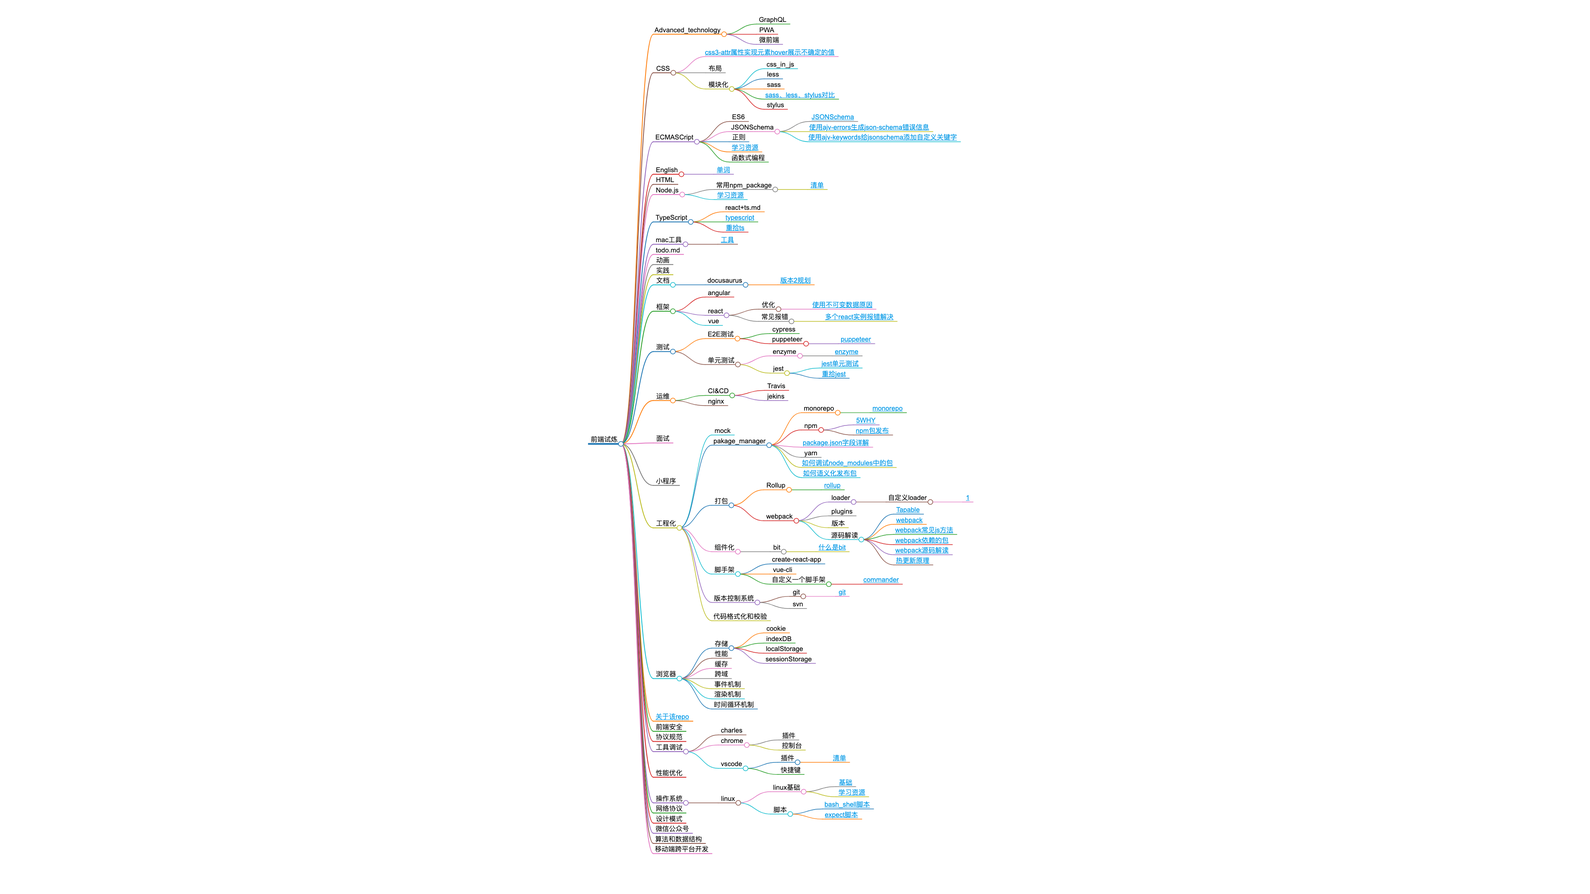
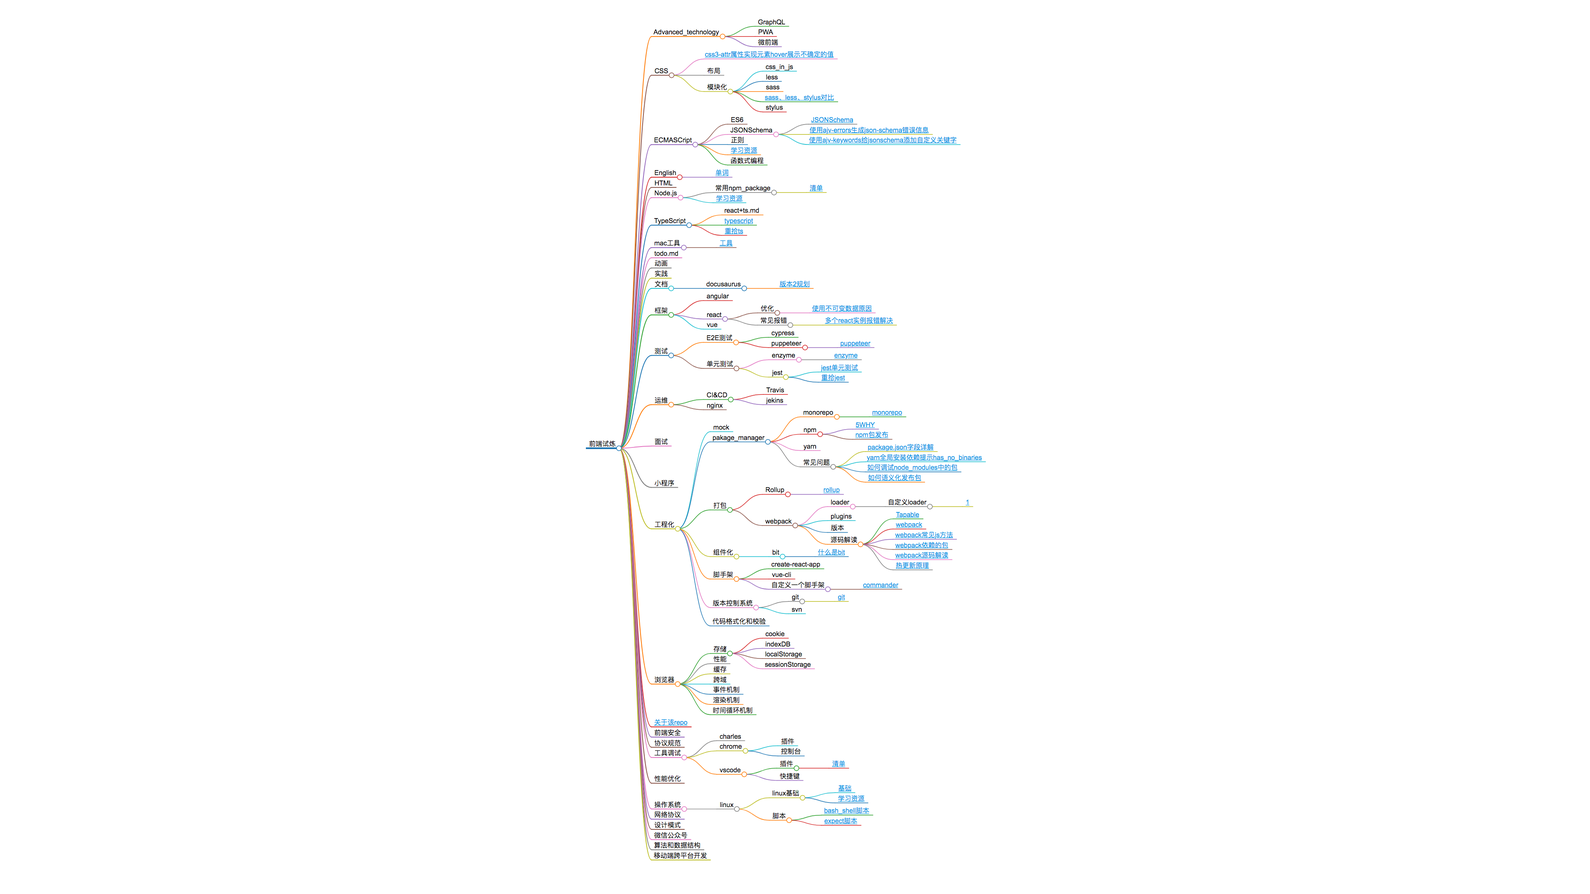
chore: updata思维导图

Changed region(s): [[0.375, 0.0, 0.625, 0.9616]]

diff --git a/website/static/xmind.html b/website/static/xmind.html
@@ -28,6 +28,6 @@
         (init ? init(loadPlugins, items, opts) : Promise.resolve()).then(() => {
           window.mm = Markmap.create('svg#mindmap', null, data);
         });
-      })({"t":"heading","d":1,"v":"前端试炼","c":[{"t":"list_item","d":2,"v":"Advanced_technology","c":[{"t":"list_item","d":3,"v":"GraphQL"},{"t":"list_item","d":3,"v":"PWA"},{"t":"list_item","d":3,"v":"微前端"}]},{"t":"list_item","d":2,"v":"CSS","c":[{"t":"list_item","d":3,"v":"<a href=\"docs/CSS/0729c4e1a19b9e3b6904b91e63cbd435\" title=\"\" target=\"_blank\" rel=\"noopener noreferrer\">css3-attr属性实现元素hover展示不确定的值</a>"},{"t":"list_item","d":3,"v":"布局"},{"t":"list_item","d":3,"v":"模块化","c":[{"t":"list_item","d":4,"v":"css_in_js"},{"t":"list_item","d":4,"v":"less"},{"t":"list_item","d":4,"v":"sass"},{"t":"list_item","d":4,"v":"<a href=\"docs/CSS/模块化/98c70242585e1c8ac87207d342ab81e0\" title=\"\" target=\"_blank\" rel=\"noopener noreferrer\">sass、less、stylus对比</a>"},{"t":"list_item","d":4,"v":"stylus"}]}]},{"t":"list_item","d":2,"v":"ECMASCript","c":[{"t":"list_item","d":3,"v":"ES6"},{"t":"list_item","d":3,"v":"JSONSchema","c":[{"t":"list_item","d":4,"v":"<a href=\"docs/ECMASCript/JSONSchema/718deb34c13a2d51e3c2ba69f472fce9\" title=\"\" target=\"_blank\" rel=\"noopener noreferrer\">JSONSchema</a>"},{"t":"list_item","d":4,"v":"<a href=\"docs/ECMASCript/JSONSchema/f7964c8f9054ea24043d6089ad339147\" title=\"\" target=\"_blank\" rel=\"noopener noreferrer\">使用ajv-errors生成json-schema错误信息</a>"},{"t":"list_item","d":4,"v":"<a href=\"docs/ECMASCript/JSONSchema/5237e232cb7cb852580db82169fdcaeb\" title=\"\" target=\"_blank\" rel=\"noopener noreferrer\">使用ajv-keywords给jsonschema添加自定义关键字</a>"}]},{"t":"list_item","d":3,"v":"正则"},{"t":"list_item","d":3,"v":"<a href=\"docs/操作系统/linux/linux基础/689f3c1463ddd1dcc82289676bfe9c29\" title=\"\" target=\"_blank\" rel=\"noopener noreferrer\">学习资源</a>"},{"t":"list_item","d":3,"v":"函数式编程"}]},{"t":"list_item","d":2,"v":"English","c":[{"t":"list_item","d":3,"v":"<a href=\"docs/English/72a91cf59167d6c497b1e3057447af5a\" title=\"\" target=\"_blank\" rel=\"noopener noreferrer\">单词</a>"}]},{"t":"list_item","d":2,"v":"HTML"},{"t":"list_item","d":2,"v":"Node.js","c":[{"t":"list_item","d":3,"v":"常用npm_package","c":[{"t":"list_item","d":4,"v":"<a href=\"docs/工具调试/vscode/插件/936218830ddd439aad69eb5381a0136e\" title=\"\" target=\"_blank\" rel=\"noopener noreferrer\">清单</a>"}]},{"t":"list_item","d":3,"v":"<a href=\"docs/操作系统/linux/linux基础/689f3c1463ddd1dcc82289676bfe9c29\" title=\"\" target=\"_blank\" rel=\"noopener noreferrer\">学习资源</a>"}]},{"t":"list_item","d":2,"v":"TypeScript","c":[{"t":"list_item","d":3,"v":"react+ts.md"},{"t":"list_item","d":3,"v":"<a href=\"docs/TypeScript/808567b84cc51ad515d4820e54f84e31\" title=\"\" target=\"_blank\" rel=\"noopener noreferrer\">typescript</a>"},{"t":"list_item","d":3,"v":"<a href=\"docs/TypeScript/b36f6376acc1abd98aab96ef91491d2b\" title=\"\" target=\"_blank\" rel=\"noopener noreferrer\">重拾ts</a>"}]},{"t":"list_item","d":2,"v":"mac工具","c":[{"t":"list_item","d":3,"v":"<a href=\"docs/mac工具/5bda6d956aa9663cc7cc9f670a33c494\" title=\"\" target=\"_blank\" rel=\"noopener noreferrer\">工具</a>"}]},{"t":"list_item","d":2,"v":"todo.md"},{"t":"list_item","d":2,"v":"动画"},{"t":"list_item","d":2,"v":"实践"},{"t":"list_item","d":2,"v":"文档","c":[{"t":"list_item","d":3,"v":"docusaurus","c":[{"t":"list_item","d":4,"v":"<a href=\"docs/文档/docusaurus/a7934b68b6234157a1af4087537d1e8b\" title=\"\" target=\"_blank\" rel=\"noopener noreferrer\">版本2规划</a>"}]}]},{"t":"list_item","d":2,"v":"框架","c":[{"t":"list_item","d":3,"v":"angular"},{"t":"list_item","d":3,"v":"react","c":[{"t":"list_item","d":4,"v":"优化","c":[{"t":"list_item","d":5,"v":"<a href=\"docs/框架/react/优化/9593bd0a7ccc4b28542a173a5db9e40d\" title=\"\" target=\"_blank\" rel=\"noopener noreferrer\">使用不可变数据原因</a>"}]},{"t":"list_item","d":4,"v":"常见报错","c":[{"t":"list_item","d":5,"v":"<a href=\"docs/框架/react/常见报错/7d0e60c89a5f550eadf89f5f22550bcc\" title=\"\" target=\"_blank\" rel=\"noopener noreferrer\">多个react实例报错解决</a>"}]}]},{"t":"list_item","d":3,"v":"vue"}]},{"t":"list_item","d":2,"v":"测试","c":[{"t":"list_item","d":3,"v":"E2E测试","c":[{"t":"list_item","d":4,"v":"cypress"},{"t":"list_item","d":4,"v":"puppeteer","c":[{"t":"list_item","d":5,"v":"<a href=\"docs/测试/E2E测试/puppeteer/179673e977b3c3f9ad055a4b4a1e4eff\" title=\"\" target=\"_blank\" rel=\"noopener noreferrer\">puppeteer</a>"}]}]},{"t":"list_item","d":3,"v":"单元测试","c":[{"t":"list_item","d":4,"v":"enzyme","c":[{"t":"list_item","d":5,"v":"<a href=\"docs/测试/单元测试/enzyme/ff68fd239a281351a53d6e0b62b17fe7\" title=\"\" target=\"_blank\" rel=\"noopener noreferrer\">enzyme</a>"}]},{"t":"list_item","d":4,"v":"jest","c":[{"t":"list_item","d":5,"v":"<a href=\"docs/测试/单元测试/jest/094b039468990ad513f1f8dd484d8dc2\" title=\"\" target=\"_blank\" rel=\"noopener noreferrer\">jest单元测试</a>"},{"t":"list_item","d":5,"v":"<a href=\"docs/测试/单元测试/jest/b1f6cee7ef1784df1f5f69a9c4a785da\" title=\"\" target=\"_blank\" rel=\"noopener noreferrer\">重拾jest</a>"}]}]}]},{"t":"list_item","d":2,"v":"运维","c":[{"t":"list_item","d":3,"v":"CI&amp;CD","c":[{"t":"list_item","d":4,"v":"Travis"},{"t":"list_item","d":4,"v":"jekins"}]},{"t":"list_item","d":3,"v":"nginx"}]},{"t":"list_item","d":2,"v":"面试"},{"t":"list_item","d":2,"v":"小程序"},{"t":"list_item","d":2,"v":"工程化","c":[{"t":"list_item","d":3,"v":"mock"},{"t":"list_item","d":3,"v":"pakage_manager","c":[{"t":"list_item","d":4,"v":"monorepo","c":[{"t":"list_item","d":5,"v":"<a href=\"docs/工程化/pakage_manager/monorepo/8f5278ed6bda43d57e7b77d4c5a243e6\" title=\"\" target=\"_blank\" rel=\"noopener noreferrer\">monorepo</a>"}]},{"t":"list_item","d":4,"v":"npm","c":[{"t":"list_item","d":5,"v":"<a href=\"docs/工程化/pakage_manager/npm/c7133389f53e8d534c388d5ce8b37459\" title=\"\" target=\"_blank\" rel=\"noopener noreferrer\">5WHY</a>"},{"t":"list_item","d":5,"v":"<a href=\"docs/工程化/pakage_manager/npm/ba56c3b18aefa148f9439f026ec3f973\" title=\"\" target=\"_blank\" rel=\"noopener noreferrer\">npm包发布</a>"}]},{"t":"list_item","d":4,"v":"<a href=\"docs/工程化/pakage_manager/38f14e8081af1e36ddd422fa9b4db94a\" title=\"\" target=\"_blank\" rel=\"noopener noreferrer\">package.json字段详解</a>"},{"t":"list_item","d":4,"v":"yarn"},{"t":"list_item","d":4,"v":"<a href=\"docs/工程化/pakage_manager/e6a07bea153f8b002ef8dc47f8bc1311\" title=\"\" target=\"_blank\" rel=\"noopener noreferrer\">如何调试node_modules中的包</a>"},{"t":"list_item","d":4,"v":"<a href=\"docs/工程化/pakage_manager/ec0f88d99c3ac3c6b5038c575ac4d1ce\" title=\"\" target=\"_blank\" rel=\"noopener noreferrer\">如何语义化发布包</a>"}]},{"t":"list_item","d":3,"v":"打包","c":[{"t":"list_item","d":4,"v":"Rollup","c":[{"t":"list_item","d":5,"v":"<a href=\"docs/工程化/打包/Rollup/4918d3072fb3da6be9ad6cfe54c020f3\" title=\"\" target=\"_blank\" rel=\"noopener noreferrer\">rollup</a>"}]},{"t":"list_item","d":4,"v":"webpack","c":[{"t":"list_item","d":5,"v":"loader","c":[{"t":"list_item","d":6,"v":"自定义loader","c":[{"t":"list_item","d":7,"v":"<a href=\"docs/工程化/打包/webpack/loader/自定义loader/c6093b78d3f332e1920b4067fa4121a9\" title=\"\" target=\"_blank\" rel=\"noopener noreferrer\">1</a>"}]}]},{"t":"list_item","d":5,"v":"plugins"},{"t":"list_item","d":5,"v":"版本"},{"t":"list_item","d":5,"v":"源码解读","c":[{"t":"list_item","d":6,"v":"<a href=\"docs/工程化/打包/webpack/源码解读/3044cf73a36f83e5344247f79ffb719e\" title=\"\" target=\"_blank\" rel=\"noopener noreferrer\">Tapable</a>"},{"t":"list_item","d":6,"v":"<a href=\"docs/工程化/打包/webpack/源码解读/8b9409a6ad189493556150ffca9a2079\" title=\"\" target=\"_blank\" rel=\"noopener noreferrer\">webpack</a>"},{"t":"list_item","d":6,"v":"<a href=\"docs/工程化/打包/webpack/源码解读/7cb10912f28c1696659c6131b517f27c\" title=\"\" target=\"_blank\" rel=\"noopener noreferrer\">webpack常见js方法</a>"},{"t":"list_item","d":6,"v":"<a href=\"docs/工程化/打包/webpack/源码解读/0889ebe5191ee49173a6c02e5d4ccd6f\" title=\"\" target=\"_blank\" rel=\"noopener noreferrer\">webpack依赖的包</a>"},{"t":"list_item","d":6,"v":"<a href=\"docs/工程化/打包/webpack/源码解读/80e8979bbebe30571bf98fea6d3b32d0\" title=\"\" target=\"_blank\" rel=\"noopener noreferrer\">webpack源码解读</a>"},{"t":"list_item","d":6,"v":"<a href=\"docs/工程化/打包/webpack/源码解读/768e191e2dc797ba437ddbf619dcf3b5\" title=\"\" target=\"_blank\" rel=\"noopener noreferrer\">热更新原理</a>"}]}]}]},{"t":"list_item","d":3,"v":"组件化","c":[{"t":"list_item","d":4,"v":"bit","c":[{"t":"list_item","d":5,"v":"<a href=\"docs/工程化/组件化/bit/a0d47b851468953d2c75ec36293fc240\" title=\"\" target=\"_blank\" rel=\"noopener noreferrer\">什么是bit</a>"}]}]},{"t":"list_item","d":3,"v":"脚手架","c":[{"t":"list_item","d":4,"v":"create-react-app"},{"t":"list_item","d":4,"v":"vue-cli"},{"t":"list_item","d":4,"v":"自定义一个脚手架","c":[{"t":"list_item","d":5,"v":"<a href=\"docs/工程化/脚手架/自定义一个脚手架/e1f3c1423014acd77d6282114faf6935\" title=\"\" target=\"_blank\" rel=\"noopener noreferrer\">commander</a>"}]}]},{"t":"list_item","d":3,"v":"版本控制系统","c":[{"t":"list_item","d":4,"v":"git","c":[{"t":"list_item","d":5,"v":"<a href=\"docs/工程化/版本控制系统/git/85735fc293ff4dbf3ef3e42201cb061d\" title=\"\" target=\"_blank\" rel=\"noopener noreferrer\">git</a>"}]},{"t":"list_item","d":4,"v":"svn"}]},{"t":"list_item","d":3,"v":"代码格式化和校验"}]},{"t":"list_item","d":2,"v":"浏览器","c":[{"t":"list_item","d":3,"v":"存储","c":[{"t":"list_item","d":4,"v":"cookie"},{"t":"list_item","d":4,"v":"indexDB"},{"t":"list_item","d":4,"v":"localStorage"},{"t":"list_item","d":4,"v":"sessionStorage"}]},{"t":"list_item","d":3,"v":"性能"},{"t":"list_item","d":3,"v":"缓存"},{"t":"list_item","d":3,"v":"跨域"},{"t":"list_item","d":3,"v":"事件机制"},{"t":"list_item","d":3,"v":"渲染机制"},{"t":"list_item","d":3,"v":"时间循环机制"}]},{"t":"list_item","d":2,"v":"<a href=\"docs/95a148348b289ba387509c05eb1c6af2\" title=\"\" target=\"_blank\" rel=\"noopener noreferrer\">关于该repo</a>"},{"t":"list_item","d":2,"v":"前端安全"},{"t":"list_item","d":2,"v":"协议规范"},{"t":"list_item","d":2,"v":"工具调试","c":[{"t":"list_item","d":3,"v":"charles"},{"t":"list_item","d":3,"v":"chrome","c":[{"t":"list_item","d":4,"v":"插件"},{"t":"list_item","d":4,"v":"控制台"}]},{"t":"list_item","d":3,"v":"vscode","c":[{"t":"list_item","d":4,"v":"插件","c":[{"t":"list_item","d":5,"v":"<a href=\"docs/工具调试/vscode/插件/936218830ddd439aad69eb5381a0136e\" title=\"\" target=\"_blank\" rel=\"noopener noreferrer\">清单</a>"}]},{"t":"list_item","d":4,"v":"快捷键"}]}]},{"t":"list_item","d":2,"v":"性能优化"},{"t":"list_item","d":2,"v":"操作系统","c":[{"t":"list_item","d":3,"v":"linux","c":[{"t":"list_item","d":4,"v":"linux基础","c":[{"t":"list_item","d":5,"v":"<a href=\"docs/操作系统/linux/linux基础/585ed91706206035253631d51d62d7d1\" title=\"\" target=\"_blank\" rel=\"noopener noreferrer\">基础</a>"},{"t":"list_item","d":5,"v":"<a href=\"docs/操作系统/linux/linux基础/689f3c1463ddd1dcc82289676bfe9c29\" title=\"\" target=\"_blank\" rel=\"noopener noreferrer\">学习资源</a>"}]},{"t":"list_item","d":4,"v":"脚本","c":[{"t":"list_item","d":5,"v":"<a href=\"docs/操作系统/linux/脚本/5d8743a01675138db72310478b6c7f30\" title=\"\" target=\"_blank\" rel=\"noopener noreferrer\">bash_shell脚本</a>"},{"t":"list_item","d":5,"v":"<a href=\"docs/操作系统/linux/脚本/c89e3ed149c086944696ba0fe3a5ffde\" title=\"\" target=\"_blank\" rel=\"noopener noreferrer\">expect脚本</a>"}]}]}]},{"t":"list_item","d":2,"v":"网络协议"},{"t":"list_item","d":2,"v":"设计模式"},{"t":"list_item","d":2,"v":"微信公众号"},{"t":"list_item","d":2,"v":"算法和数据结构"},{"t":"list_item","d":2,"v":"移动端跨平台开发"}]},(loadPlugins, items, opts) => loadPlugins(items, opts),["prism"],{"prism":true})</script>
+      })({"t":"heading","d":1,"v":"前端试炼","c":[{"t":"list_item","d":2,"v":"Advanced_technology","c":[{"t":"list_item","d":3,"v":"GraphQL"},{"t":"list_item","d":3,"v":"PWA"},{"t":"list_item","d":3,"v":"微前端"}]},{"t":"list_item","d":2,"v":"CSS","c":[{"t":"list_item","d":3,"v":"<a href=\"docs/CSS/0729c4e1a19b9e3b6904b91e63cbd435\" title=\"\" target=\"_blank\" rel=\"noopener noreferrer\">css3-attr属性实现元素hover展示不确定的值</a>"},{"t":"list_item","d":3,"v":"布局"},{"t":"list_item","d":3,"v":"模块化","c":[{"t":"list_item","d":4,"v":"css_in_js"},{"t":"list_item","d":4,"v":"less"},{"t":"list_item","d":4,"v":"sass"},{"t":"list_item","d":4,"v":"<a href=\"docs/CSS/模块化/98c70242585e1c8ac87207d342ab81e0\" title=\"\" target=\"_blank\" rel=\"noopener noreferrer\">sass、less、stylus对比</a>"},{"t":"list_item","d":4,"v":"stylus"}]}]},{"t":"list_item","d":2,"v":"ECMASCript","c":[{"t":"list_item","d":3,"v":"ES6"},{"t":"list_item","d":3,"v":"JSONSchema","c":[{"t":"list_item","d":4,"v":"<a href=\"docs/ECMASCript/JSONSchema/718deb34c13a2d51e3c2ba69f472fce9\" title=\"\" target=\"_blank\" rel=\"noopener noreferrer\">JSONSchema</a>"},{"t":"list_item","d":4,"v":"<a href=\"docs/ECMASCript/JSONSchema/f7964c8f9054ea24043d6089ad339147\" title=\"\" target=\"_blank\" rel=\"noopener noreferrer\">使用ajv-errors生成json-schema错误信息</a>"},{"t":"list_item","d":4,"v":"<a href=\"docs/ECMASCript/JSONSchema/5237e232cb7cb852580db82169fdcaeb\" title=\"\" target=\"_blank\" rel=\"noopener noreferrer\">使用ajv-keywords给jsonschema添加自定义关键字</a>"}]},{"t":"list_item","d":3,"v":"正则"},{"t":"list_item","d":3,"v":"<a href=\"docs/操作系统/linux/linux基础/689f3c1463ddd1dcc82289676bfe9c29\" title=\"\" target=\"_blank\" rel=\"noopener noreferrer\">学习资源</a>"},{"t":"list_item","d":3,"v":"函数式编程"}]},{"t":"list_item","d":2,"v":"English","c":[{"t":"list_item","d":3,"v":"<a href=\"docs/English/72a91cf59167d6c497b1e3057447af5a\" title=\"\" target=\"_blank\" rel=\"noopener noreferrer\">单词</a>"}]},{"t":"list_item","d":2,"v":"HTML"},{"t":"list_item","d":2,"v":"Node.js","c":[{"t":"list_item","d":3,"v":"常用npm_package","c":[{"t":"list_item","d":4,"v":"<a href=\"docs/工具调试/vscode/插件/936218830ddd439aad69eb5381a0136e\" title=\"\" target=\"_blank\" rel=\"noopener noreferrer\">清单</a>"}]},{"t":"list_item","d":3,"v":"<a href=\"docs/操作系统/linux/linux基础/689f3c1463ddd1dcc82289676bfe9c29\" title=\"\" target=\"_blank\" rel=\"noopener noreferrer\">学习资源</a>"}]},{"t":"list_item","d":2,"v":"TypeScript","c":[{"t":"list_item","d":3,"v":"react+ts.md"},{"t":"list_item","d":3,"v":"<a href=\"docs/TypeScript/808567b84cc51ad515d4820e54f84e31\" title=\"\" target=\"_blank\" rel=\"noopener noreferrer\">typescript</a>"},{"t":"list_item","d":3,"v":"<a href=\"docs/TypeScript/b36f6376acc1abd98aab96ef91491d2b\" title=\"\" target=\"_blank\" rel=\"noopener noreferrer\">重拾ts</a>"}]},{"t":"list_item","d":2,"v":"mac工具","c":[{"t":"list_item","d":3,"v":"<a href=\"docs/mac工具/5bda6d956aa9663cc7cc9f670a33c494\" title=\"\" target=\"_blank\" rel=\"noopener noreferrer\">工具</a>"}]},{"t":"list_item","d":2,"v":"todo.md"},{"t":"list_item","d":2,"v":"动画"},{"t":"list_item","d":2,"v":"实践"},{"t":"list_item","d":2,"v":"文档","c":[{"t":"list_item","d":3,"v":"docusaurus","c":[{"t":"list_item","d":4,"v":"<a href=\"docs/文档/docusaurus/a7934b68b6234157a1af4087537d1e8b\" title=\"\" target=\"_blank\" rel=\"noopener noreferrer\">版本2规划</a>"}]}]},{"t":"list_item","d":2,"v":"框架","c":[{"t":"list_item","d":3,"v":"angular"},{"t":"list_item","d":3,"v":"react","c":[{"t":"list_item","d":4,"v":"优化","c":[{"t":"list_item","d":5,"v":"<a href=\"docs/框架/react/优化/9593bd0a7ccc4b28542a173a5db9e40d\" title=\"\" target=\"_blank\" rel=\"noopener noreferrer\">使用不可变数据原因</a>"}]},{"t":"list_item","d":4,"v":"常见报错","c":[{"t":"list_item","d":5,"v":"<a href=\"docs/框架/react/常见报错/7d0e60c89a5f550eadf89f5f22550bcc\" title=\"\" target=\"_blank\" rel=\"noopener noreferrer\">多个react实例报错解决</a>"}]}]},{"t":"list_item","d":3,"v":"vue"}]},{"t":"list_item","d":2,"v":"测试","c":[{"t":"list_item","d":3,"v":"E2E测试","c":[{"t":"list_item","d":4,"v":"cypress"},{"t":"list_item","d":4,"v":"puppeteer","c":[{"t":"list_item","d":5,"v":"<a href=\"docs/测试/E2E测试/puppeteer/179673e977b3c3f9ad055a4b4a1e4eff\" title=\"\" target=\"_blank\" rel=\"noopener noreferrer\">puppeteer</a>"}]}]},{"t":"list_item","d":3,"v":"单元测试","c":[{"t":"list_item","d":4,"v":"enzyme","c":[{"t":"list_item","d":5,"v":"<a href=\"docs/测试/单元测试/enzyme/ff68fd239a281351a53d6e0b62b17fe7\" title=\"\" target=\"_blank\" rel=\"noopener noreferrer\">enzyme</a>"}]},{"t":"list_item","d":4,"v":"jest","c":[{"t":"list_item","d":5,"v":"<a href=\"docs/测试/单元测试/jest/094b039468990ad513f1f8dd484d8dc2\" title=\"\" target=\"_blank\" rel=\"noopener noreferrer\">jest单元测试</a>"},{"t":"list_item","d":5,"v":"<a href=\"docs/测试/单元测试/jest/b1f6cee7ef1784df1f5f69a9c4a785da\" title=\"\" target=\"_blank\" rel=\"noopener noreferrer\">重拾jest</a>"}]}]}]},{"t":"list_item","d":2,"v":"运维","c":[{"t":"list_item","d":3,"v":"CI&amp;CD","c":[{"t":"list_item","d":4,"v":"Travis"},{"t":"list_item","d":4,"v":"jekins"}]},{"t":"list_item","d":3,"v":"nginx"}]},{"t":"list_item","d":2,"v":"面试"},{"t":"list_item","d":2,"v":"小程序"},{"t":"list_item","d":2,"v":"工程化","c":[{"t":"list_item","d":3,"v":"mock"},{"t":"list_item","d":3,"v":"pakage_manager","c":[{"t":"list_item","d":4,"v":"monorepo","c":[{"t":"list_item","d":5,"v":"<a href=\"docs/工程化/pakage_manager/monorepo/8f5278ed6bda43d57e7b77d4c5a243e6\" title=\"\" target=\"_blank\" rel=\"noopener noreferrer\">monorepo</a>"}]},{"t":"list_item","d":4,"v":"npm","c":[{"t":"list_item","d":5,"v":"<a href=\"docs/工程化/pakage_manager/npm/c7133389f53e8d534c388d5ce8b37459\" title=\"\" target=\"_blank\" rel=\"noopener noreferrer\">5WHY</a>"},{"t":"list_item","d":5,"v":"<a href=\"docs/工程化/pakage_manager/npm/ba56c3b18aefa148f9439f026ec3f973\" title=\"\" target=\"_blank\" rel=\"noopener noreferrer\">npm包发布</a>"}]},{"t":"list_item","d":4,"v":"yarn"},{"t":"list_item","d":4,"v":"常见问题","c":[{"t":"list_item","d":5,"v":"<a href=\"docs/工程化/pakage_manager/常见问题/505112b129e18311b92912279ec967ac\" title=\"\" target=\"_blank\" rel=\"noopener noreferrer\">package.json字段详解</a>"},{"t":"list_item","d":5,"v":"<a href=\"docs/工程化/pakage_manager/常见问题/aa55a1757ae8690ae5adae7d48914a4a\" title=\"\" target=\"_blank\" rel=\"noopener noreferrer\">yarn全局安装依赖提示has_no_binaries</a>"},{"t":"list_item","d":5,"v":"<a href=\"docs/工程化/pakage_manager/常见问题/00acc1fbba1d66b5070d1c7cb5c9a175\" title=\"\" target=\"_blank\" rel=\"noopener noreferrer\">如何调试node_modules中的包</a>"},{"t":"list_item","d":5,"v":"<a href=\"docs/工程化/pakage_manager/常见问题/fa267f67236440714dbd398db0b50f41\" title=\"\" target=\"_blank\" rel=\"noopener noreferrer\">如何语义化发布包</a>"}]}]},{"t":"list_item","d":3,"v":"打包","c":[{"t":"list_item","d":4,"v":"Rollup","c":[{"t":"list_item","d":5,"v":"<a href=\"docs/工程化/打包/Rollup/4918d3072fb3da6be9ad6cfe54c020f3\" title=\"\" target=\"_blank\" rel=\"noopener noreferrer\">rollup</a>"}]},{"t":"list_item","d":4,"v":"webpack","c":[{"t":"list_item","d":5,"v":"loader","c":[{"t":"list_item","d":6,"v":"自定义loader","c":[{"t":"list_item","d":7,"v":"<a href=\"docs/工程化/打包/webpack/loader/自定义loader/c6093b78d3f332e1920b4067fa4121a9\" title=\"\" target=\"_blank\" rel=\"noopener noreferrer\">1</a>"}]}]},{"t":"list_item","d":5,"v":"plugins"},{"t":"list_item","d":5,"v":"版本"},{"t":"list_item","d":5,"v":"源码解读","c":[{"t":"list_item","d":6,"v":"<a href=\"docs/工程化/打包/webpack/源码解读/3044cf73a36f83e5344247f79ffb719e\" title=\"\" target=\"_blank\" rel=\"noopener noreferrer\">Tapable</a>"},{"t":"list_item","d":6,"v":"<a href=\"docs/工程化/打包/webpack/源码解读/8b9409a6ad189493556150ffca9a2079\" title=\"\" target=\"_blank\" rel=\"noopener noreferrer\">webpack</a>"},{"t":"list_item","d":6,"v":"<a href=\"docs/工程化/打包/webpack/源码解读/7cb10912f28c1696659c6131b517f27c\" title=\"\" target=\"_blank\" rel=\"noopener noreferrer\">webpack常见js方法</a>"},{"t":"list_item","d":6,"v":"<a href=\"docs/工程化/打包/webpack/源码解读/0889ebe5191ee49173a6c02e5d4ccd6f\" title=\"\" target=\"_blank\" rel=\"noopener noreferrer\">webpack依赖的包</a>"},{"t":"list_item","d":6,"v":"<a href=\"docs/工程化/打包/webpack/源码解读/80e8979bbebe30571bf98fea6d3b32d0\" title=\"\" target=\"_blank\" rel=\"noopener noreferrer\">webpack源码解读</a>"},{"t":"list_item","d":6,"v":"<a href=\"docs/工程化/打包/webpack/源码解读/768e191e2dc797ba437ddbf619dcf3b5\" title=\"\" target=\"_blank\" rel=\"noopener noreferrer\">热更新原理</a>"}]}]}]},{"t":"list_item","d":3,"v":"组件化","c":[{"t":"list_item","d":4,"v":"bit","c":[{"t":"list_item","d":5,"v":"<a href=\"docs/工程化/组件化/bit/a0d47b851468953d2c75ec36293fc240\" title=\"\" target=\"_blank\" rel=\"noopener noreferrer\">什么是bit</a>"}]}]},{"t":"list_item","d":3,"v":"脚手架","c":[{"t":"list_item","d":4,"v":"create-react-app"},{"t":"list_item","d":4,"v":"vue-cli"},{"t":"list_item","d":4,"v":"自定义一个脚手架","c":[{"t":"list_item","d":5,"v":"<a href=\"docs/工程化/脚手架/自定义一个脚手架/e1f3c1423014acd77d6282114faf6935\" title=\"\" target=\"_blank\" rel=\"noopener noreferrer\">commander</a>"}]}]},{"t":"list_item","d":3,"v":"版本控制系统","c":[{"t":"list_item","d":4,"v":"git","c":[{"t":"list_item","d":5,"v":"<a href=\"docs/工程化/版本控制系统/git/85735fc293ff4dbf3ef3e42201cb061d\" title=\"\" target=\"_blank\" rel=\"noopener noreferrer\">git</a>"}]},{"t":"list_item","d":4,"v":"svn"}]},{"t":"list_item","d":3,"v":"代码格式化和校验"}]},{"t":"list_item","d":2,"v":"浏览器","c":[{"t":"list_item","d":3,"v":"存储","c":[{"t":"list_item","d":4,"v":"cookie"},{"t":"list_item","d":4,"v":"indexDB"},{"t":"list_item","d":4,"v":"localStorage"},{"t":"list_item","d":4,"v":"sessionStorage"}]},{"t":"list_item","d":3,"v":"性能"},{"t":"list_item","d":3,"v":"缓存"},{"t":"list_item","d":3,"v":"跨域"},{"t":"list_item","d":3,"v":"事件机制"},{"t":"list_item","d":3,"v":"渲染机制"},{"t":"list_item","d":3,"v":"时间循环机制"}]},{"t":"list_item","d":2,"v":"<a href=\"docs/95a148348b289ba387509c05eb1c6af2\" title=\"\" target=\"_blank\" rel=\"noopener noreferrer\">关于该repo</a>"},{"t":"list_item","d":2,"v":"前端安全"},{"t":"list_item","d":2,"v":"协议规范"},{"t":"list_item","d":2,"v":"工具调试","c":[{"t":"list_item","d":3,"v":"charles"},{"t":"list_item","d":3,"v":"chrome","c":[{"t":"list_item","d":4,"v":"插件"},{"t":"list_item","d":4,"v":"控制台"}]},{"t":"list_item","d":3,"v":"vscode","c":[{"t":"list_item","d":4,"v":"插件","c":[{"t":"list_item","d":5,"v":"<a href=\"docs/工具调试/vscode/插件/936218830ddd439aad69eb5381a0136e\" title=\"\" target=\"_blank\" rel=\"noopener noreferrer\">清单</a>"}]},{"t":"list_item","d":4,"v":"快捷键"}]}]},{"t":"list_item","d":2,"v":"性能优化"},{"t":"list_item","d":2,"v":"操作系统","c":[{"t":"list_item","d":3,"v":"linux","c":[{"t":"list_item","d":4,"v":"linux基础","c":[{"t":"list_item","d":5,"v":"<a href=\"docs/操作系统/linux/linux基础/585ed91706206035253631d51d62d7d1\" title=\"\" target=\"_blank\" rel=\"noopener noreferrer\">基础</a>"},{"t":"list_item","d":5,"v":"<a href=\"docs/操作系统/linux/linux基础/689f3c1463ddd1dcc82289676bfe9c29\" title=\"\" target=\"_blank\" rel=\"noopener noreferrer\">学习资源</a>"}]},{"t":"list_item","d":4,"v":"脚本","c":[{"t":"list_item","d":5,"v":"<a href=\"docs/操作系统/linux/脚本/5d8743a01675138db72310478b6c7f30\" title=\"\" target=\"_blank\" rel=\"noopener noreferrer\">bash_shell脚本</a>"},{"t":"list_item","d":5,"v":"<a href=\"docs/操作系统/linux/脚本/c89e3ed149c086944696ba0fe3a5ffde\" title=\"\" target=\"_blank\" rel=\"noopener noreferrer\">expect脚本</a>"}]}]}]},{"t":"list_item","d":2,"v":"网络协议"},{"t":"list_item","d":2,"v":"设计模式"},{"t":"list_item","d":2,"v":"微信公众号"},{"t":"list_item","d":2,"v":"算法和数据结构"},{"t":"list_item","d":2,"v":"移动端跨平台开发"}]},(loadPlugins, items, opts) => loadPlugins(items, opts),["prism"],{"prism":true})</script>
 </body>
 </html>
